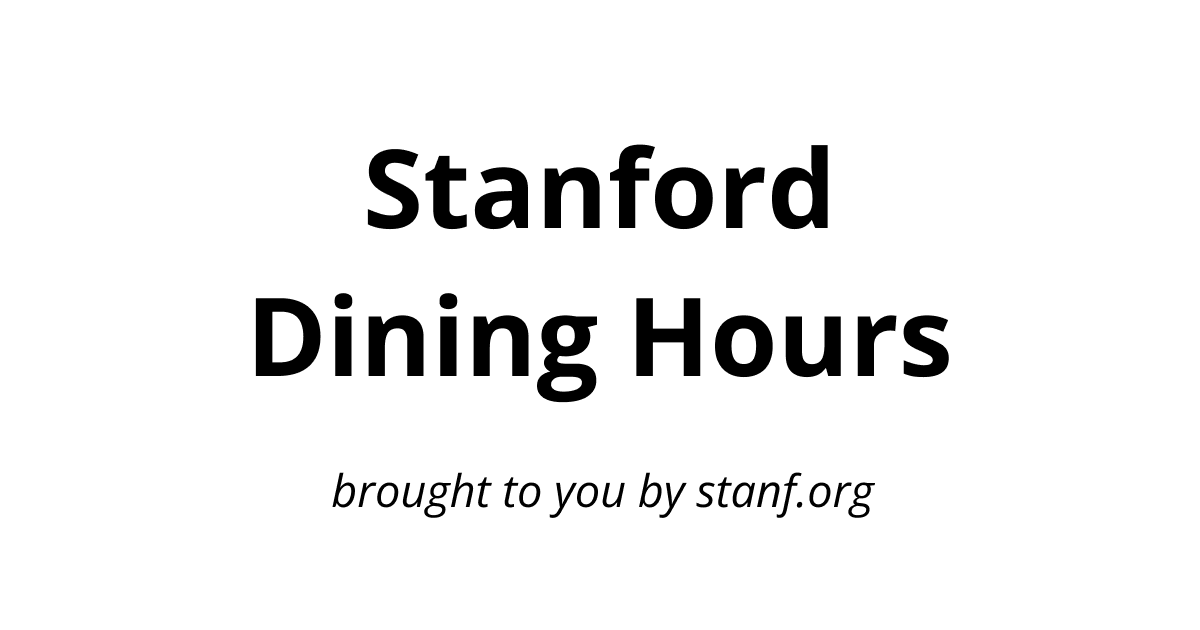
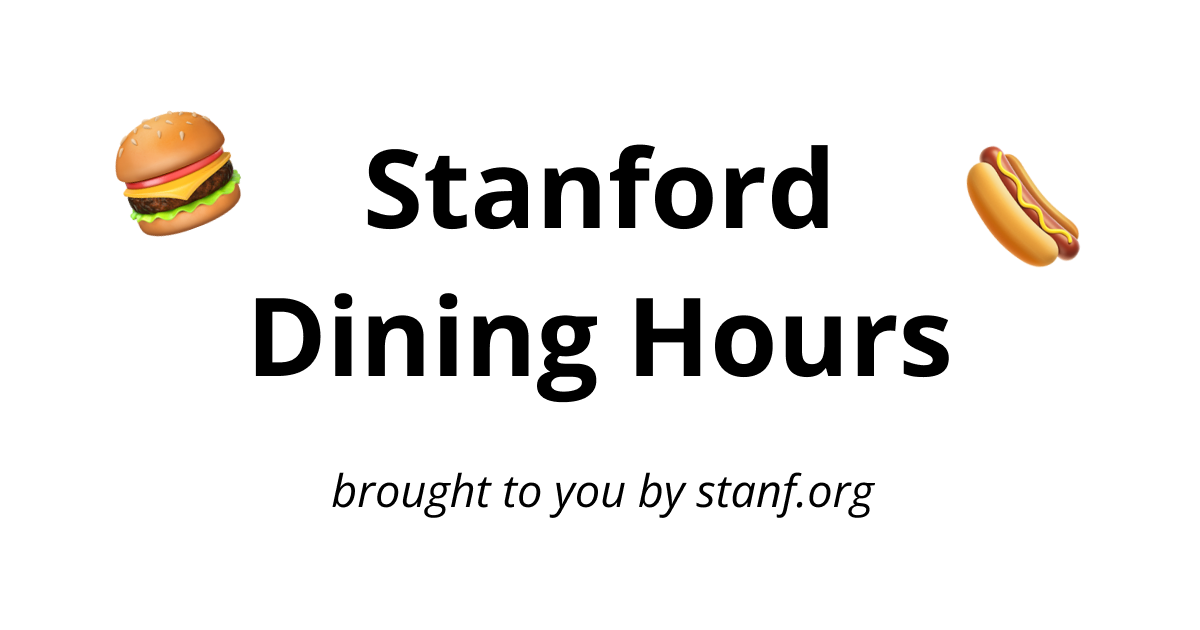
analytics, fix og image

Changed region(s): [[0.0925, 0.181, 0.2158, 0.3921], [0.8017, 0.2111, 0.925, 0.4222]]

diff --git a/app/layout.tsx b/app/layout.tsx
@@ -22,6 +22,9 @@ export default function RootLayout({
 }>) {
   return (
     <html lang="en">
+      <head>
+        <script defer data-domain="dining.stanf.org" src="https://analytics.eliothertenstein.com/js/script.js"></script>
+      </head>
       <body
         className={`${openSans.className} antialiased`}
       >
